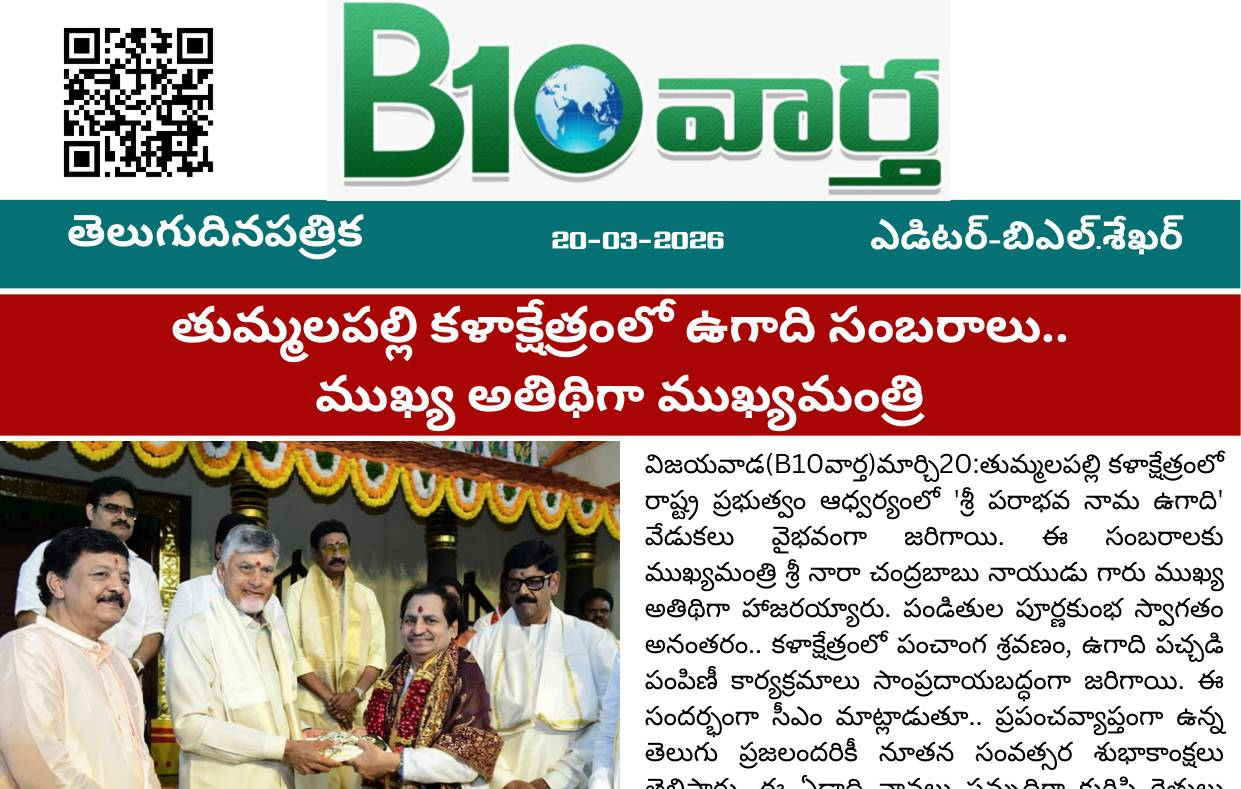
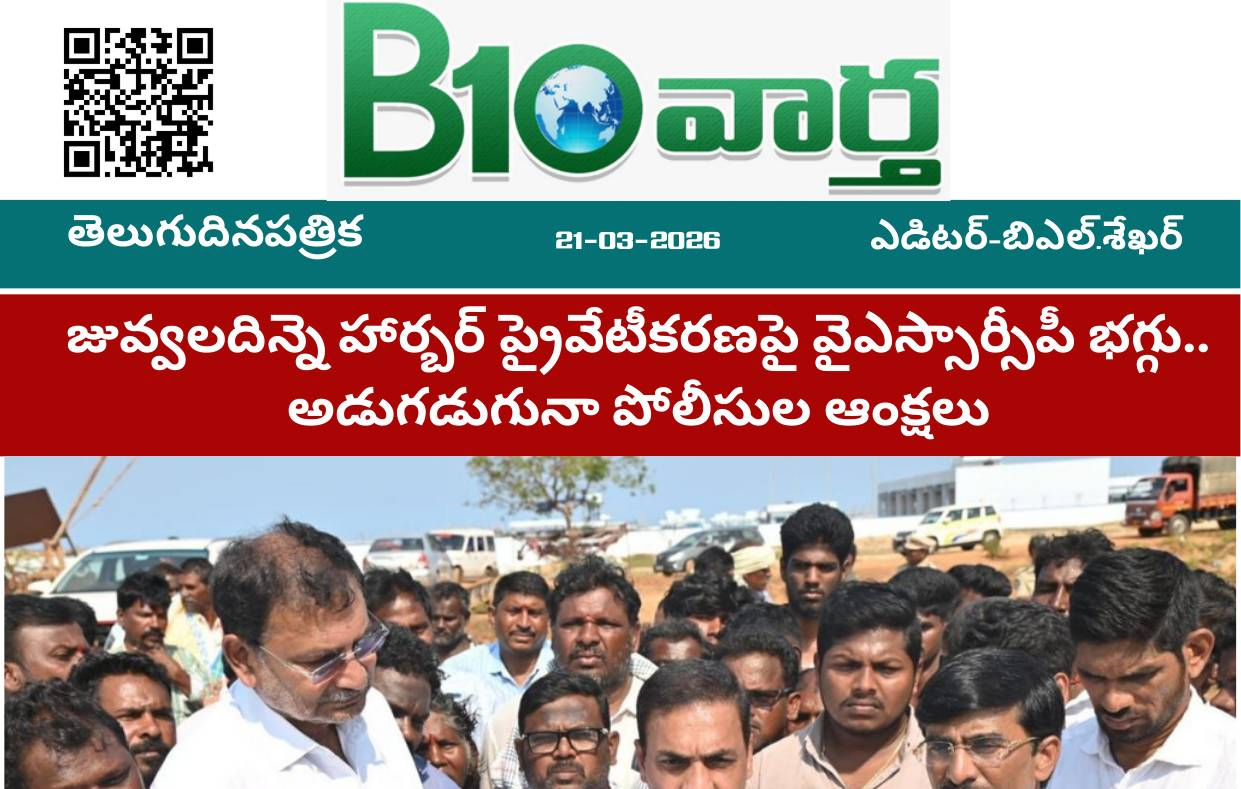
Auto-published edition with Smart Crop & Rename

diff --git a/index.html b/index.html
@@ -19,7 +19,7 @@
 
     <meta property="og:title" content="B10 Vartha ePaper - Quality Telugu Journalism">
     <meta property="og:description" content="Read the latest Telugu news daily on our mobile-friendly digital platform.">
-    <meta property="og:image" content="https://epaperb10vartha.in/assets/latest-cover.jpg?v=20-03-2026">
+    <meta property="og:image" content="https://epaperb10vartha.in/assets/latest-cover.jpg?v=21-03-2026">
     <meta property="og:url" content="https://epaperb10vartha.in/">
     <meta property="og:type" content="website">
     <meta name="twitter:card" content="summary_large_image">
